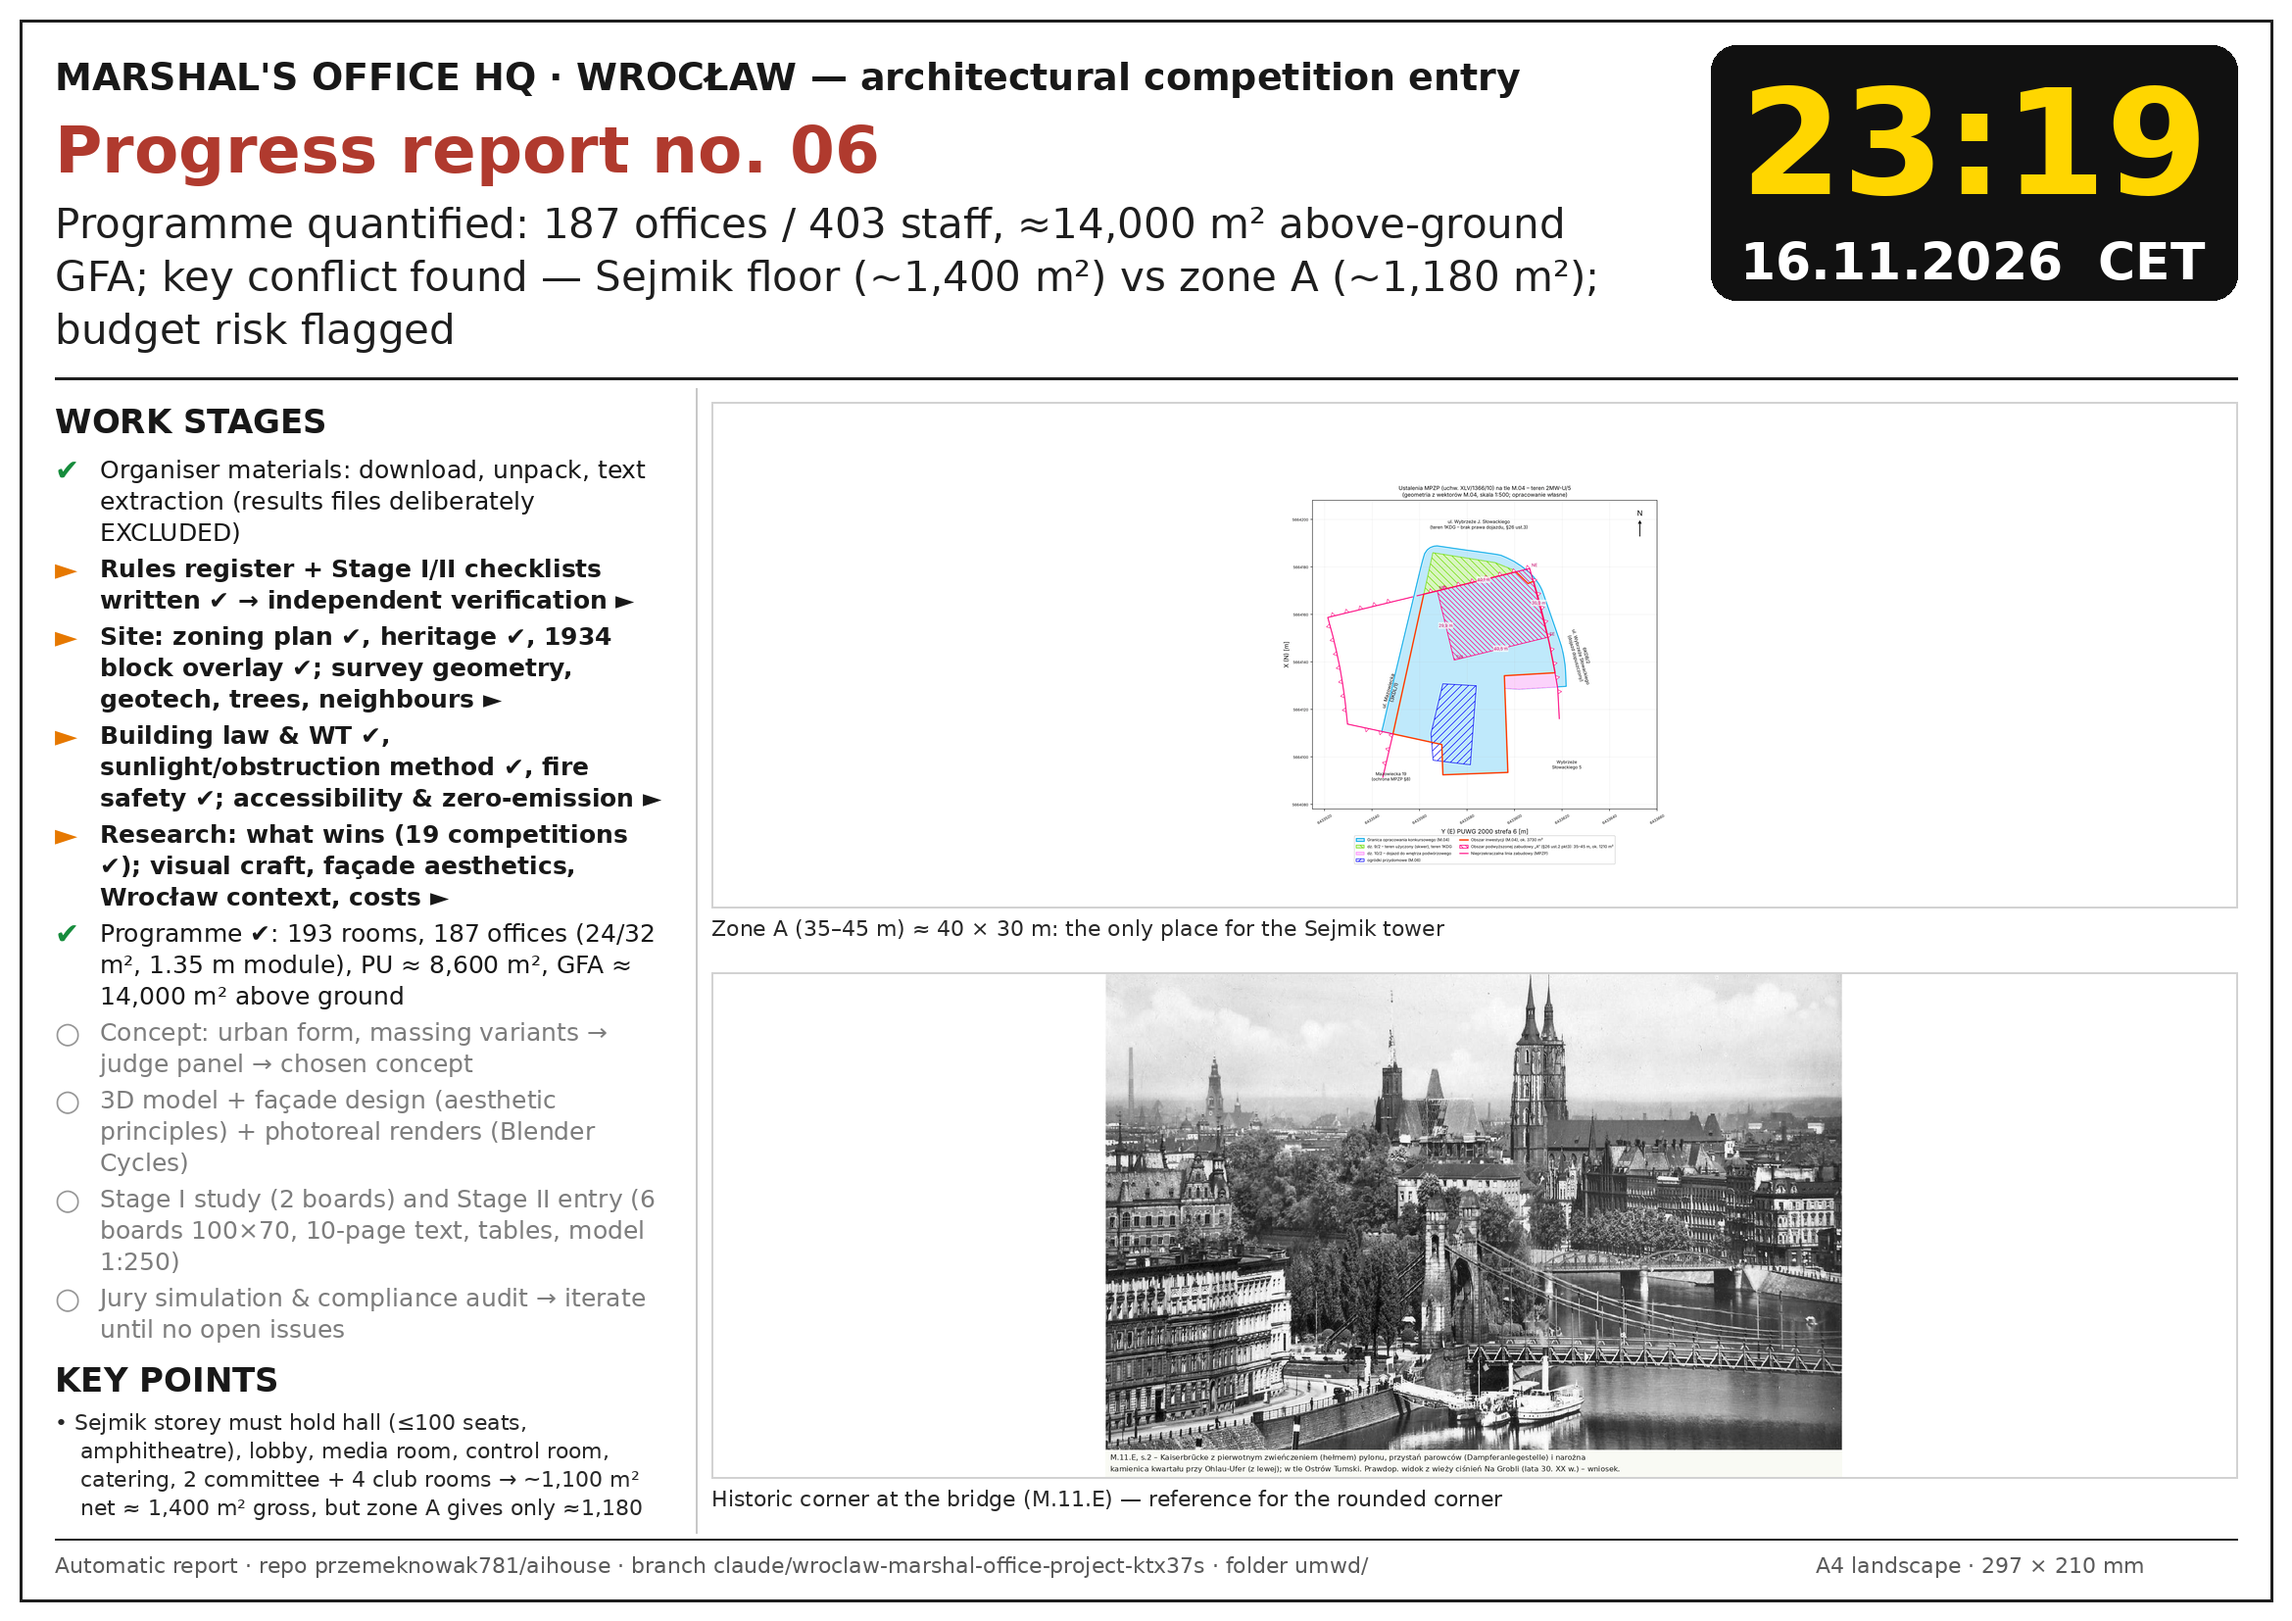
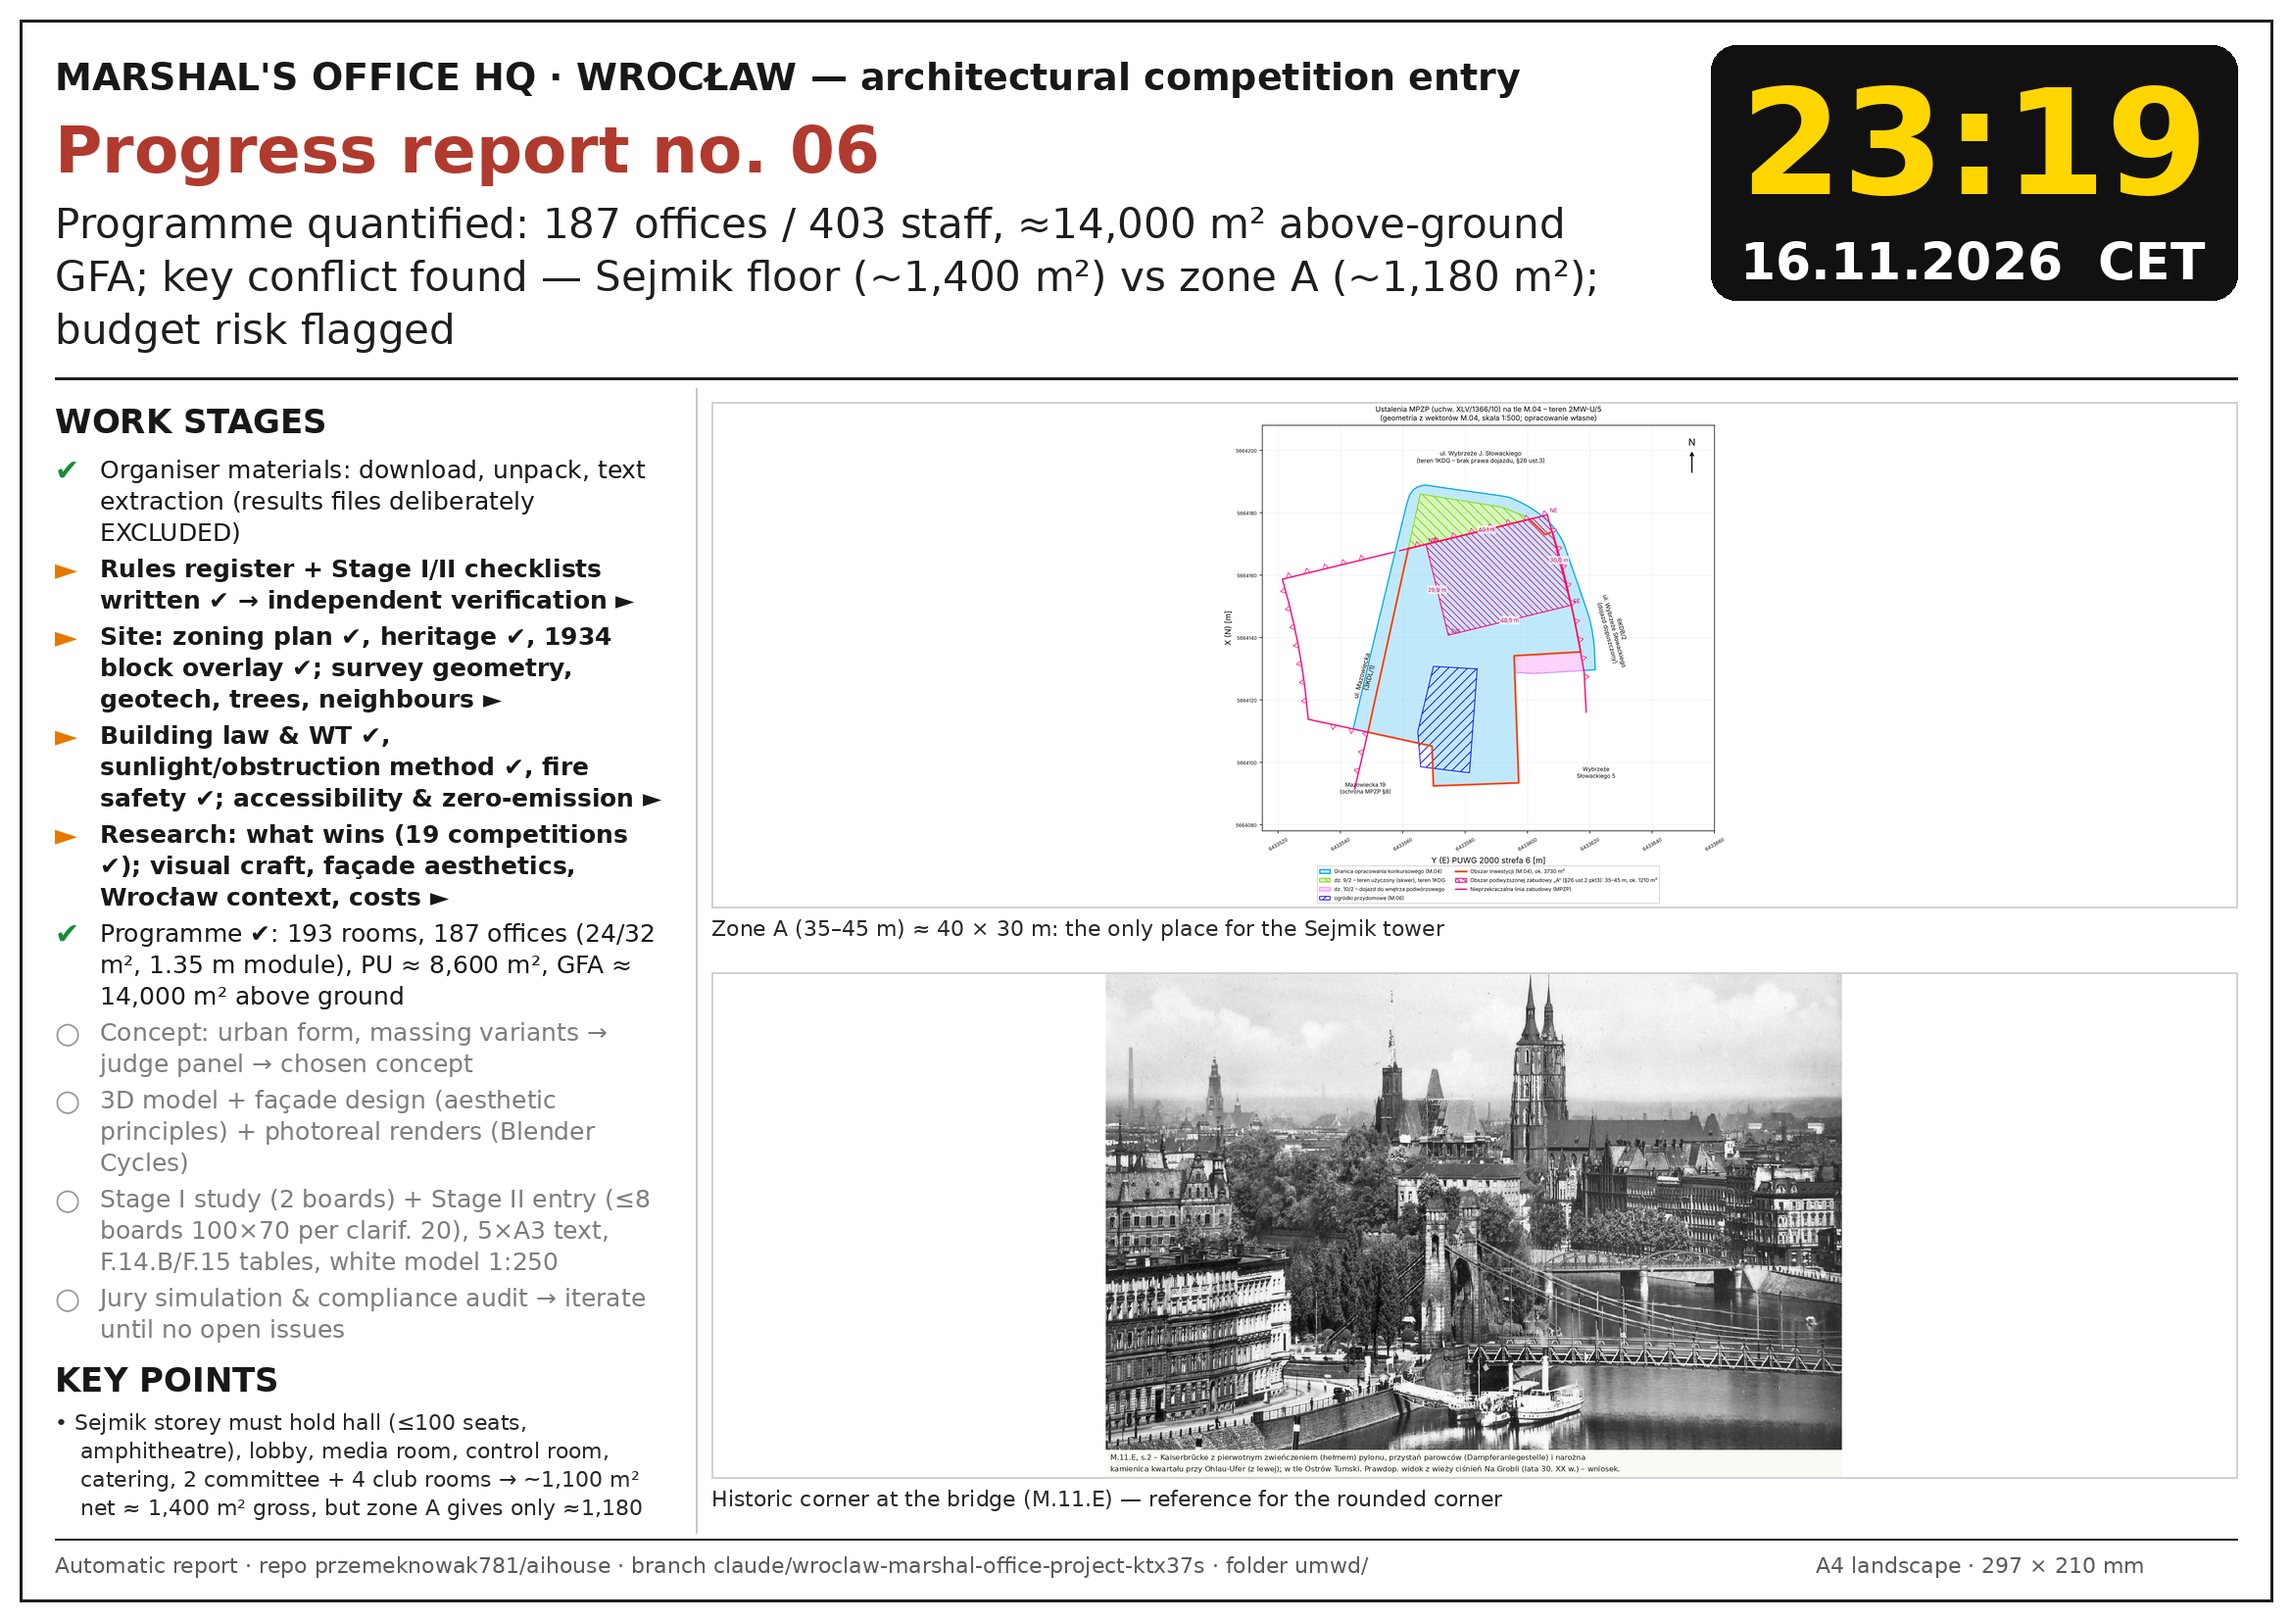
UMWD: prace robocze zespołów (autocommit)
Claude-Session: https://claude.ai/code/session_01ULAuXU15ZK9PB4XdqzfV5P

Changed region(s): [[0.5618, 0.2467, 0.749, 0.555], [0.0624, 0.7092, 0.2809, 0.8017]]

diff --git a/umwd/tools/report_board.py b/umwd/tools/report_board.py
@@ -95,7 +95,12 @@ def render(spec, out):
     d.line([gx0-16, hb+10, gx0-16, H-90], fill=(200, 200, 200), width=2)
     ims = [i for i in spec.get("images", []) if resolve(i["path"]).exists()][:6]
     for it, (x0, y0, bw, bh) in zip(ims, boxes_for(len(ims), gx0, gy0, gx1, gy1)):
-        im = ImageOps.contain(Image.open(resolve(it["path"])).convert("RGB"), (bw, bh-46), Image.LANCZOS)
+        src = Image.open(resolve(it["path"])).convert("RGB")
+        bbox = ImageOps.invert(src.convert("L")).point(lambda v: 255 if v > 12 else 0).getbbox()
+        if bbox:
+            pad = 10
+            src = src.crop((max(0, bbox[0]-pad), max(0, bbox[1]-pad), min(src.width, bbox[2]+pad), min(src.height, bbox[3]+pad)))
+        im = ImageOps.contain(src, (bw, bh-46), Image.LANCZOS)
         img.paste(im, (x0 + (bw-im.width)//2, y0 + (bh-46-im.height)//2))
         d.rectangle([x0, y0, x0+bw, y0+bh-46], outline=(210, 210, 210), width=2)
         cap, cf = it.get("caption", ""), font(22)

diff --git a/umwd/docs/00_brief_projektowy.md b/umwd/docs/00_brief_projektowy.md
@@ -1,0 +1,79 @@
+# Brief projektowy — siedziba UMWD i Sejmiku Województwa Dolnośląskiego, Wrocław
+
+Wersja robocza 1 (16.11.2026) — synteza wyników zespołów badawczych. Każdy punkt odsyła do dokumentu źródłowego w `umwd/docs/`,
+gdzie znajdują się pełne cytaty i odwołania (strona / § / nr wyjaśnienia). „Wniosek” = interpretacja zespołu.
+
+## 1. Zadanie i ocena
+
+* Konkurs SARP dwuetapowy, realizacyjny; Etap I — opracowanie studialne (2 plansze 100×70, ≤5 stron A4), Etap II — praca konkursowa
+  (≤ **8** plansz 100×70 — Wyj. 20 odp. 76; opis 10 × A4 = 5 × A3; tabele F.14.B, F.15.A–C; makieta biała 1:250). Źródło: `10_regulamin/lista_kontrolna_etap1.md`, `lista_kontrolna_etap2.md`.
+* Kryteria pierwszorzędne (równoważne): (a) efektywność rozwiązań przestrzenno-funkcjonalnych i programowych; (b) trafność wpisania w tkankę;
+  (c) atrakcyjność i oryginalność; (d) proekologia i energooszczędność; (e) dostępność i inkluzywność. Drugorzędne: realność ekonomiczna.
+  Regulamin: „pierwszorzędnym kryterium … będzie jakość rozwiązań funkcjonalnych i przestrzennych”. (`10_regulamin/kryteria_oceny.md`)
+* Sąd: 9 osób, w większości sędziowie SARP (Warszawa, Wrocław), Marszałek, Sekretarz Województwa, Architekt Miasta Wrocławia.
+* Strategia (z analizy 19 werdyktów 2021–26): **zero słabych punktów + jedna mocna, czytelna idea obywatelska**; właściwa skala,
+  powściągliwość, publiczny parter, sala obrad jako widoczny symbol z bezbłędnym dostępem, mineralne materiały w małej liczbie,
+  ostrożnie ze szkłem, ekologia spójna (nie gadżety), koszt w limicie, wizualizacje wiarygodne (dzienny realizm z sąsiadami w kadrze).
+  (`50_research/trendy_konkursowe.md`)
+
+## 2. Teren i prawo miejscowe (MPZP 2MW-U/5, uchwała XLV/1366/10) — `30_lokalizacja/mpzp.md`
+
+* Obszar inwestycji ≈ 3 728 m² (dz. 10/3, 11/6, 19/11, 9/1); skwer publiczny na dz. 9/2 (teren 1KDG) — bez kubatury; dz. 10/2 — dojazd do wnętrza.
+* **Wysokości (twarde):** poza obszarem A każdy dach: najwyższy punkt pokrycia ≤ 25 m, najniższy ≥ 18 m (brak niskich pawilonów i łączników!);
+  w obszarze podwyższonej zabudowy **A (czworobok ≈ 40,1 × 30,0 m, ≈ 1 182 m² w obszarze inwestycji, narożnik pn.-wsch. przy przyczółku mostu)**:
+  najwyższy ≤ 45 m, najniższy ≥ 35 m. Dominanta nie musi wypełniać całego A (Wyj. 8 odp. 57). Wysokość mierzona od poziomu terenu (≈ 118,5–119,4 m n.p.m.).
+* Linie zabudowy nieprzekraczalne = granice obszaru od 1KDG (pn.) i 6KDB/2 (wsch.) oraz od Mazowieckiej; **zakaz nadwieszenia poza obszar** (Wyj. 7 odp. 28).
+* **Zakaz dojazdu z 1KDG** (przyczółek mostu) — zjazd do garażu i dostawy od Wybrzeża Słowackiego (6KDB/2, ew. przez dz. 10/2) lub od Mazowieckiej w części pd.
+* Parkowanie: ≥ 12 m.p./1000 m² PU biur i sal konferencyjnych (+6/1000 gastronomia) — na własnym terenie (garaż podziemny); szac. 103–110 m.p.
+* **Zakaz urządzeń technicznych na dachach** i na elewacjach od ulic/bulwaru → piętro techniczne w bryle, BIPV jako pokrycie.
+* „Szczególne wymagania architektoniczne” (wysoka jakość materiałów), „szczególne zagospodarowanie stref wejściowych”, **wyeksponowanie** od 1KDG, 3KDL/1, 6KDB/2.
+* Strefa śródmiejska (WT), strefa ochrony konserwatorskiej (układ 538/A/05) i archeologicznej; Mazowiecka 17/19 chronione planem.
+* Szpaler drzew na bulwarze 6KDB/2; zieleń na powierzchniach nieutwardzonych; PBC bez minimum dla biur (bilans w F.15.C).
+
+## 3. Konserwator (DWKZ) i historia — `30_lokalizacja/konserwator.md`, `historia.md`
+
+* „Odtworzyć kwartał, nie kamienice”: pierzeje w liniach Mazowieckiej 19 i Wybrzeża Słowackiego 5, ciągłe; **gzyms ok. 21 m**;
+  podział pierzei na segmenty szer. 12–20 m (rytm posesji) przy wspólnym gzymsie; **zaokrąglony narożnik przy moście** (wg planu 1934 i zdjęć);
+  jedna dominanta w A ze spokojnym zwieńczeniem; hełmy pylonów mostu (≈ 25,5 m, planowana odbudowa) czytelne na tle nieba.
+* Materiały: jasna ceramika lub tynk szlachetny w pierzejach, kamień (granit) w cokole — dialog z okładziną pylonów; dachy płaskie za attyką.
+* Archeologia: relikty piwnic kamienic — możliwa ekspozycja (hol/skwer) — narracja.
+* Obowiązkowa perspektywa z mostem (z hełmami — M.11.F).
+
+## 4. Sąsiedzi i nasłonecznienie — `40_prawo/naslonecznienie_metoda.md`, `30_lokalizacja/sasiedzi.md`
+
+* Wybrzeże Słowackiego 5: okna w szczycie (pokój lokalu 6/6A na I p. — „szczególna uwaga”, Wyj. 3 odp. 13; kuchnie; łazienki) — **zakaz zamurowania**;
+  szczyt zwrócony na pn. → decyduje **§ 13 WT** (w sektorze 60° przed oknem przeszkoda nie bliżej niż ½ wysokości przesłaniania; dla przeszkód > 35 m — ≥ 17,5 m);
+  § 60: mieszkanie musi zachować ≥ 1,5 h w każdym z dni równonocy (7–17 czasu urzędowego) — nie wolno zacienić pokoju od ulicy/podwórza.
+* Mazowiecka 19: przyleganie pierzeją (styk z szczytem), okna łazienek w szczycie do likwidacji (zakładane). Zalecane pokazanie potencjału połączenia.
+* Schemat zacieniania w dniu równonocy na zagospodarowaniu (Etap I) + syntetyczna analiza przesłaniania (Etap II); na zagospodarowaniu 1:500 cienie z SW pod 45°.
+
+## 5. Program (M.01) — `20_program/program.md`, `program.yaml`
+
+* 403 pracowników, **187 pokoi biurowych** (24 m² — max 3 os.; GW 32 m² — 4 os.), moduł elewacyjny **1,35 m**, głębokość pokoju ≈ 5,9 m, trakt dwustronny ≈ 15 m.
+* Strefa ogólnodostępna przy wejściu (hol reprezentacyjny z kancelarią 3 st., informacją, ochroną/monitoringiem, poczekalnią, bistro), centrum
+  konferencyjne na parterze (sala 200 os. dzielona na 2, sala 80 os.), 6 sal narad po 30 os. rozmieszczonych równomiernie, 15 pokoi socjalnych,
+  20 magazynków 24 m², archiwa GW (48 + 24 m² — na kondygnacji działu), parking rowerowy 50 st. w parterze z wjazdem od podwórza + zaplecze.
+* **Kondygnacja Sejmiku (najwyższa, w dominancie):** sala obrad ≤ 100 os., amfiteatralna, 44 stałe stanowiska z głosowaniem, publiczność
+  z **oddzielnym wejściem** (galeria dopuszczalna), hol reprezentacyjny, sala multimedialna, reżyserka, socjal-gastro, szatnia, WC, pokój matki,
+  2 sale komisji (50 i 30 os.) z nagrywaniem, 4 sale klubów (2×30, 2×15), sala radnych, pokój socjalny radnych ≈ 1 100 m² netto (Wyj. 21 odp. 85).
+  Kancelaria Sejmiku (gabinet Przewodniczącego, 3 Wiceprzewodniczących, 2 sale po 20 os.) — dopuszczalnie kondygnacja niżej.
+* Sumy (wniosek): PU programowa ≈ 8 600 m²; PC nadziemna ≈ 14 000 m²; podziemie: minimum funkcjonalne ≈ 3 800 m² (≈ 1,3 kond.), wg M.01 — 2 kondygnacje
+  (garaż + technika + MDS — miejsce doraźnego schronienia).
+* **Konflikt kluczowy:** kondygnacja Sejmiku ≈ 1 400 m² PC vs A ≈ 1 182 m² → rozwiązanie: wysoka kondygnacja Sejmiku z **antresolą**
+  (WT § 3: antresola = część kondygnacji) — galeria publiczności z oddzielnym wejściem + sala multimedialna/reżyserka na antresoli (wniosek).
+
+## 6. Prawo i technika — `40_prawo/*.md`
+
+* Budynek wysoki (W: 25–55 m); ZL III (biura), ZL I (sala Sejmiku, sale konferencyjne > 50 os.); klasa odporności „B”; klatki obudowane
+  z przedsionkami przeciwpożarowymi i ochroną przed zadymieniem; dźwig dla ekip ratowniczych; miejsca oczekiwania na ewakuację na podestach
+  z interkomem (wymóg M.01); droga pożarowa dla W. (`ppoz.md`)
+* Dostępność: wejścia bez schodów i pochylni z poziomu chodnika, WC dostępne na każdej kondygnacji, komfortka przy wejściu, ścieżki
+  dotykowe i tyflomapy w holu, pętle indukcyjne (sale, Sejmik, kancelaria), dostępna mównica i stanowiska w sali obrad. (`dostepnosc.md` — w toku)
+* Zero-emisyjność (M.12; EPBD 2024/1275 — do weryfikacji daty 2027 vs 2028), woda szara i deszczowa, OZE, trwałość i niskie koszty eksploatacji,
+  elastyczność (rezerwy w szachtach, tarasy techniczne). (`zero_emisja.md` — w toku)
+
+## 7. Budżet
+
+* Koszt realizacji (z terenem) **≤ 150 mln zł netto — nieprzekraczalny** (Wyj. 20 odp. 74), wycena realna, bez zaniżania; koszt dokumentacji ≤ 5,4 %.
+* Wstępnie (wniosek, do weryfikacji wskaźnikami): 142–183 mln zł przy PC nadziemnej 14 000 m² + 2 pełnych kondygnacjach podziemnych →
+  efektywność powierzchni i rozmiar podziemia są parametrami projektowymi. (`50_research/koszty_benchmarki.md` — w toku)
